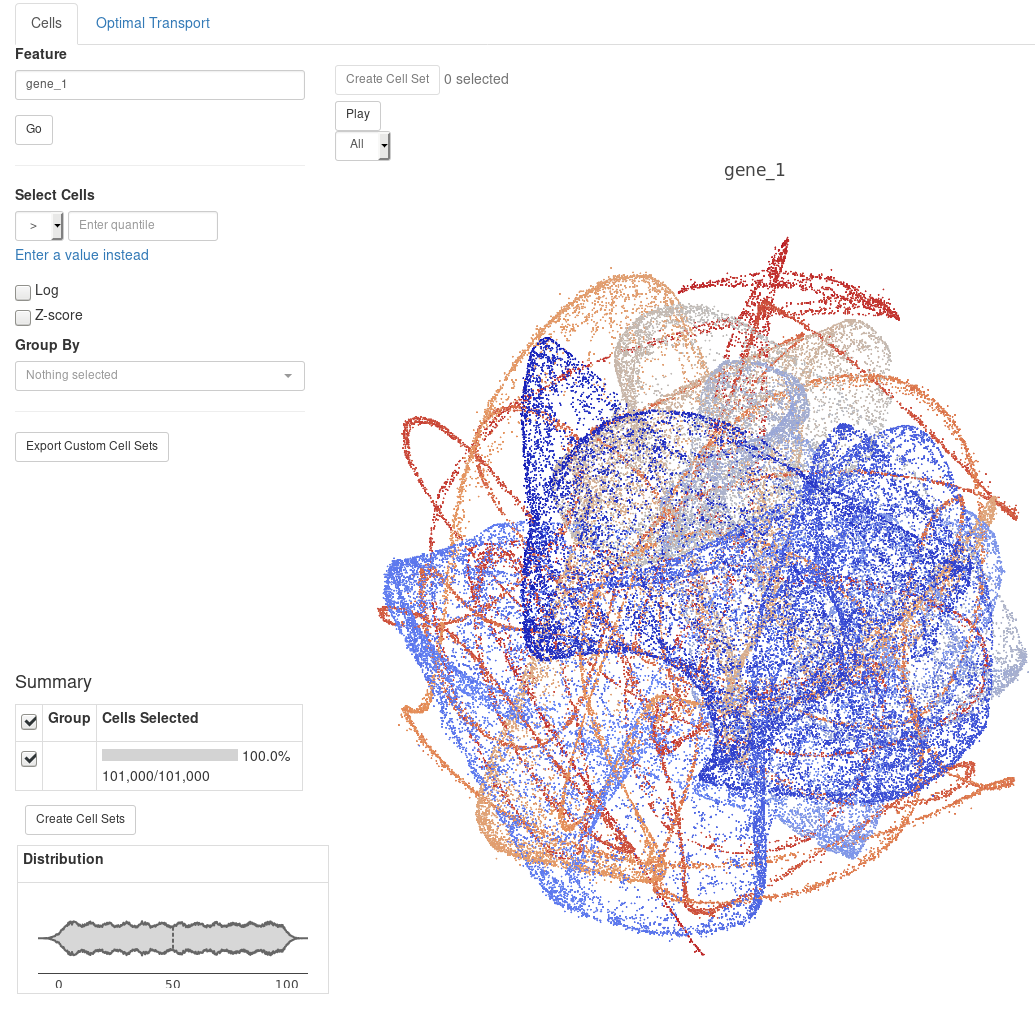
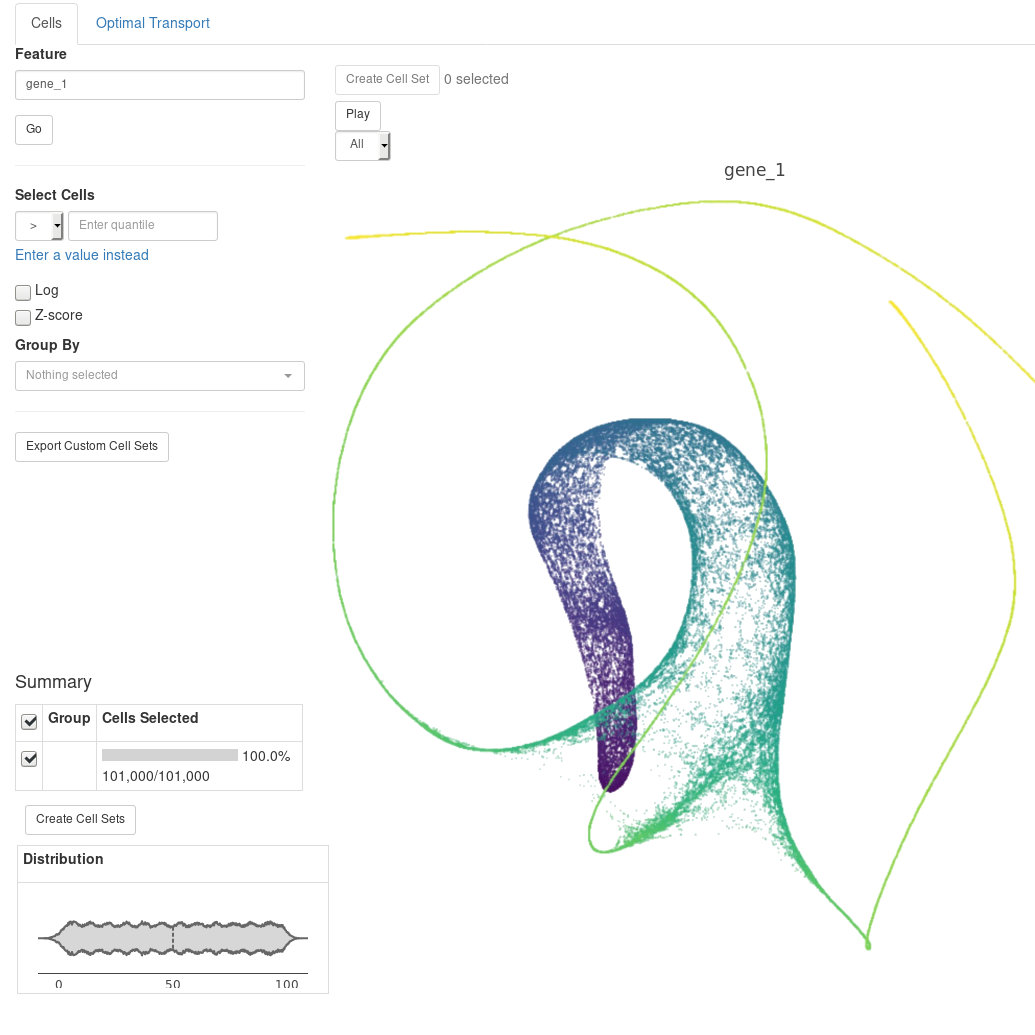
Update interactive interface picture

diff --git a/docs/_layouts/home.html b/docs/_layouts/home.html
@@ -27,7 +27,7 @@ layout: base
 
     <div class="col-md-6 order-1">
       <div class="text-center">
-        <img src="{{site.baseurl}}/images/interactive_image3.jpeg" height=300 width=300 ></img>
+        <img src="{{site.baseurl}}/images/interactive_image.png" height=300 width=300 ></img>
         <h2>Interactive</h2>
         <p>WOT features a fully interactive interface available from any web browser</p>
         <p class="mt-4"><a class="btn-secondary btn-lg nounderline" href="{{site.baseurl}}/interactive_documentation">Interactive documentation &raquo;</a></p>
